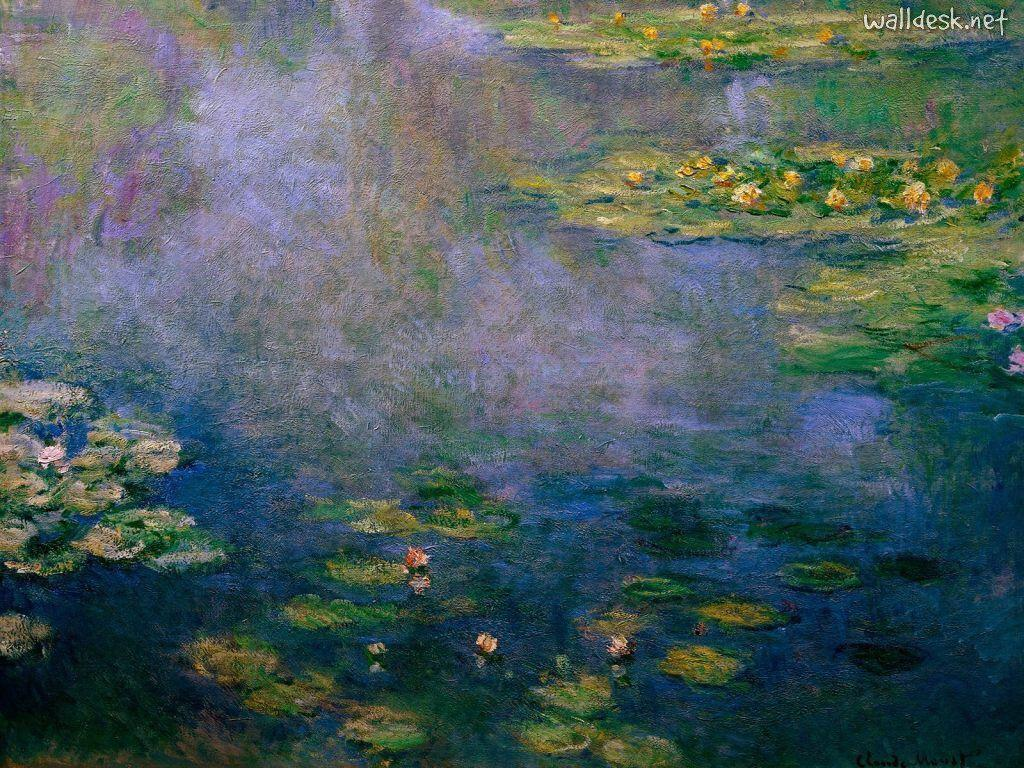
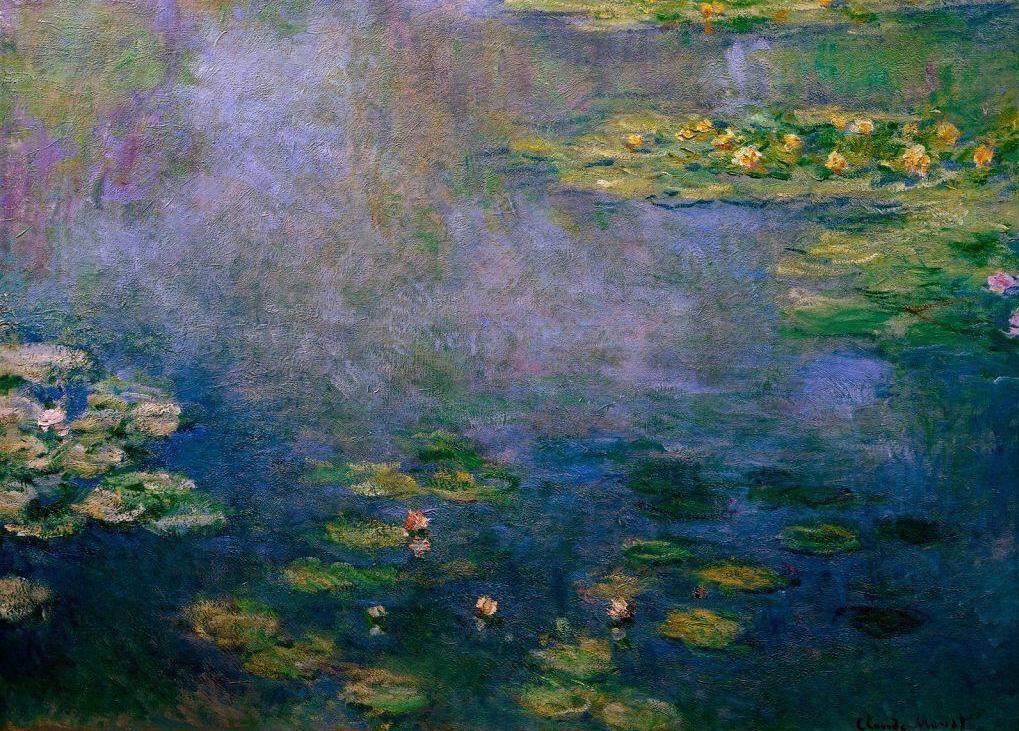
fit background to screen

diff --git a/css/main.css b/css/main.css
@@ -1,5 +1,5 @@
 body { margin: 60px auto; width: 70%; 
-       background: url('../img/water-lilies.jpg'); }
+       background: url('../img/water-lilies.jpg'); background-size: cover}
 
 a { text-decoration: none; color: #999; }
 a:hover { text-decoration: underline; }
